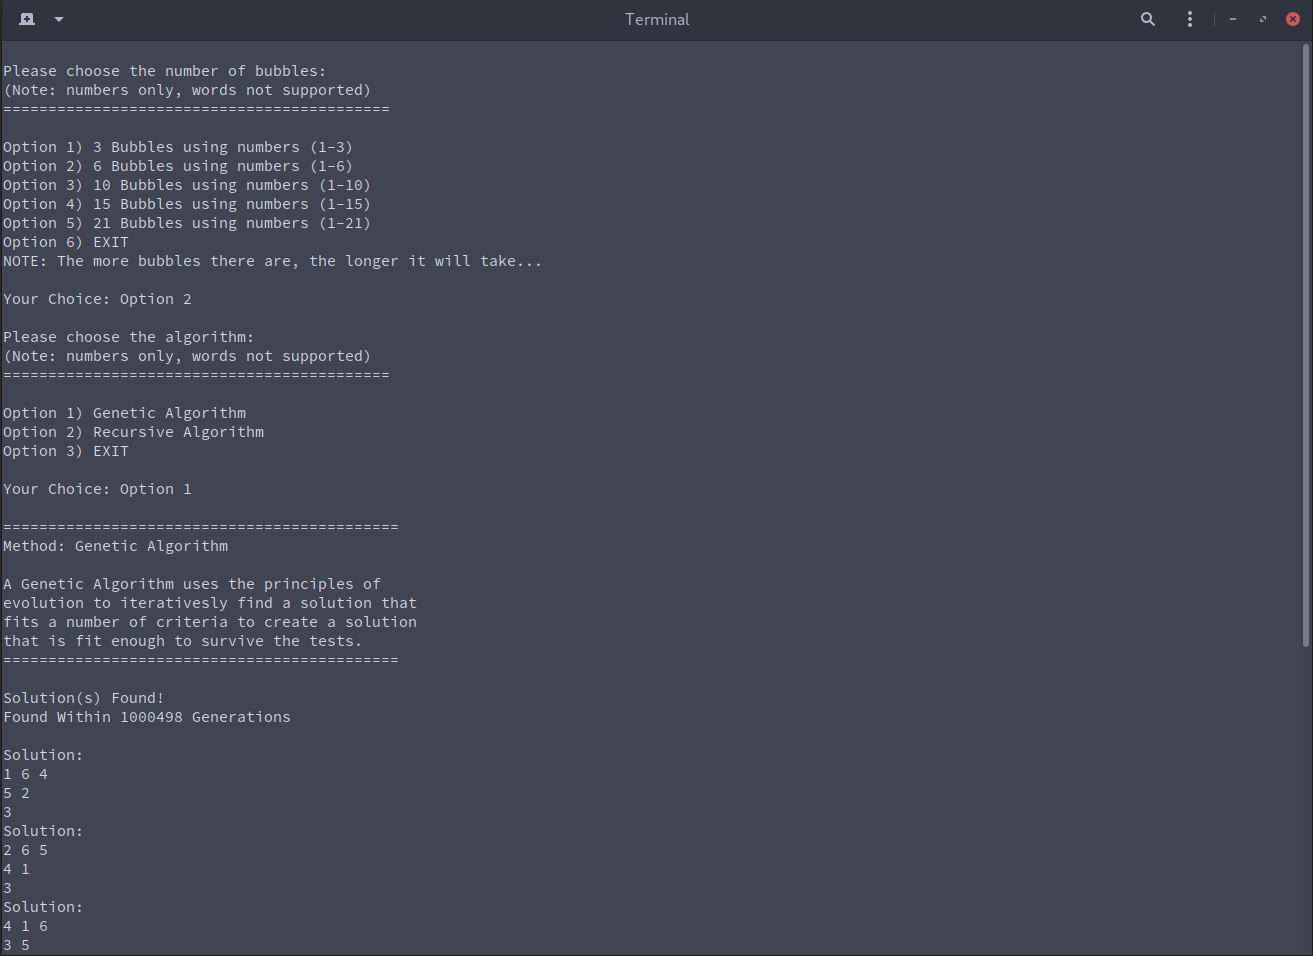
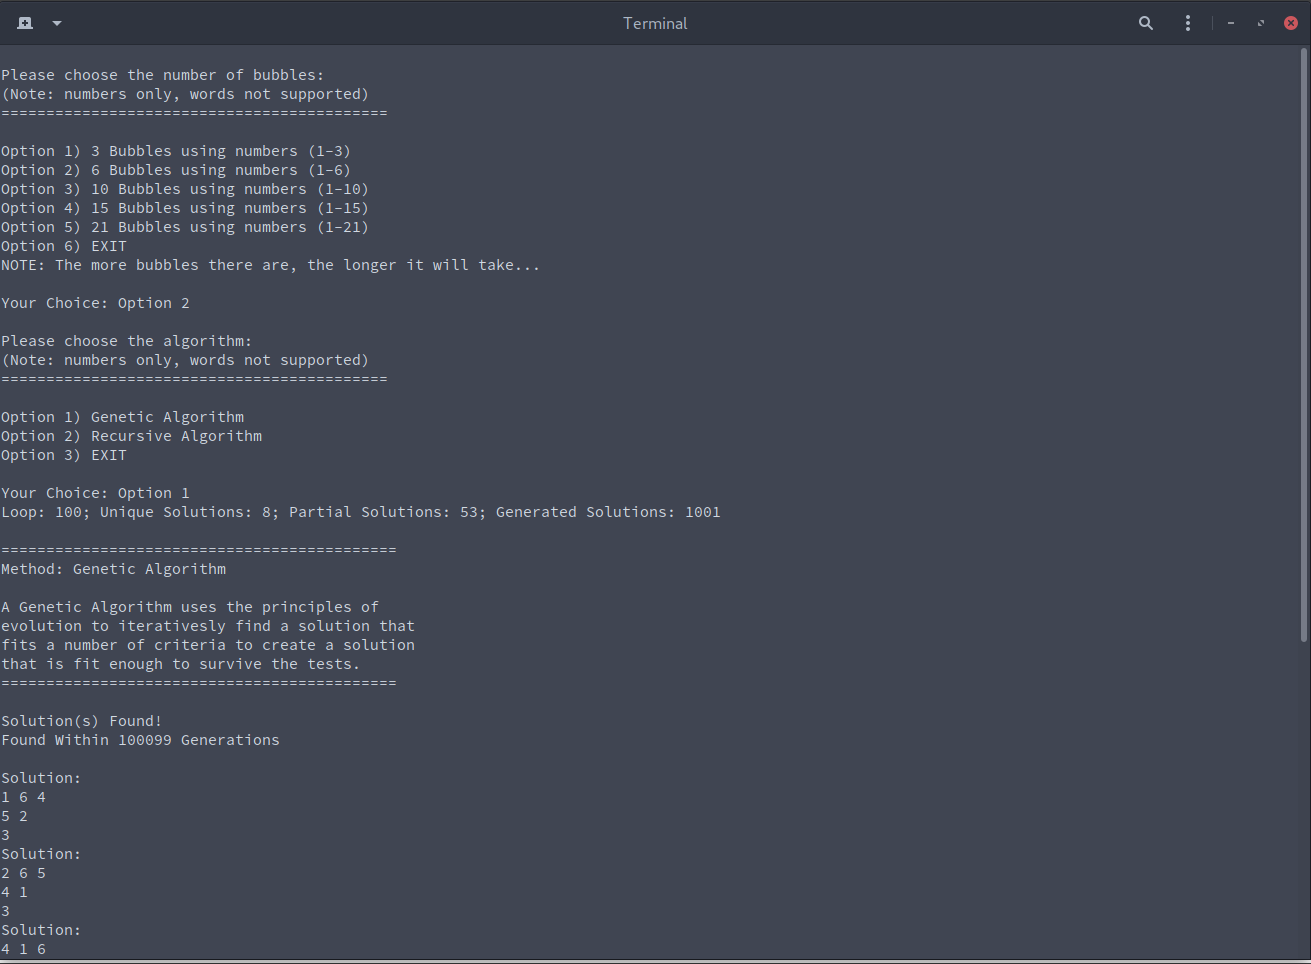
Add Screenshots && Genetic Algorithm Efficiency Tweaking

diff --git a/src/genetic-algorithm.cpp b/src/genetic-algorithm.cpp
@@ -46,10 +46,18 @@ GeneticAlgorithm::~GeneticAlgorithm(){
         m_num_charts.resize(0);
 }// end of deconstructor
 
+void linear_display(std::vector<int> input){
+  std::cout << "[";
+  for(auto num : input ){
+    std::cout << num << " ";
+  }
+  std::cout << "]\r";
+}
+
 void GeneticAlgorithm::generate_solutions(){
         // Variable
         auto total = get_total_num_chart_elements();
-        auto max_nums = ((total == 3) ? 10:((total == 6) ? (100):(1000)));
+        auto max_nums = ((total == 3) ? 10:((total == 6) ? (100):(total == 10 ? (10000):(50000))));
         //max_nums = 100000;
 
         const long long TOTAL_NUMBER_TEST_RUNS = max_nums;           // How many total loops to expect
@@ -93,6 +101,7 @@ void GeneticAlgorithm::generate_solutions(){
                                         temp_solution.insert(temp_solution.end(), partial_generation.begin(), partial_generation.end());
                                         partial_fit_solutions[counter] = temp_solution;
                                         total_new_solutions_generated++;
+                                        //linear_display(temp_solution);
                                 } else{   // Partial Matches only
                                         full_solutions.push_back(temp_solution);
                                 }// end of if
@@ -143,7 +152,7 @@ void GeneticAlgorithm::generate_solutions(){
                 full_solutions = m_num_charts;
 
                 //Display the number of full solutions found
-                if(solution_generator_counter % 2 == 0) std::cout << "loop: " << solution_generator_counter << " UniqueSol: " << full_solutions.size() << " PartialSol: " << partial_fit_solutions.size() << " GenSol: " << possible_solutions.size() << "\r";
+                if(solution_generator_counter % 2 == 0) std::cout << "Loop: " << solution_generator_counter << "; Unique Solutions: " << full_solutions.size() << "; Partial Solutions: " << partial_fit_solutions.size() << "; Generated Solutions: " << possible_solutions.size() << "\r";
         }// end of while loop
         std::cout << std::endl;
 

diff --git a/src/recursive-algorithm.cpp b/src/recursive-algorithm.cpp
@@ -42,7 +42,7 @@ RecursiveAlgorithm::~RecursiveAlgorithm(){
 void RecursiveAlgorithm::generate_solutions(){
         // Variables
         auto total = get_total_num_chart_elements();
-        auto max_nums = ((total == 3) ? 10:((total == 6) ? (10000):(1000000)));
+        auto max_nums = ((total == 3) ? 10:((total == 6) ? (10000):(100000)));
         //max_nums = 10000;
 
         std::vector<int> starting_solution;
@@ -77,7 +77,7 @@ void RecursiveAlgorithm::generate_solutions(){
 
                 // Increment the total number of while loop runs;
                 solution_generation_counter++;
-                //if (solution_generation_counter % 1000 == 0) std::cout << ">> " << solution_generation_counter << "; solution : " << potential_solution.size() << "; m_num_charts: " << m_num_charts.size() << std::endl;
+                if (solution_generation_counter % 2 == 0) std::cout << "Generated Solutions: " << solution_generation_counter << "; Unique Solutions: " << m_num_charts.size() << std::endl;
         }// end of while loop
 
         // Display more information about the solution:
